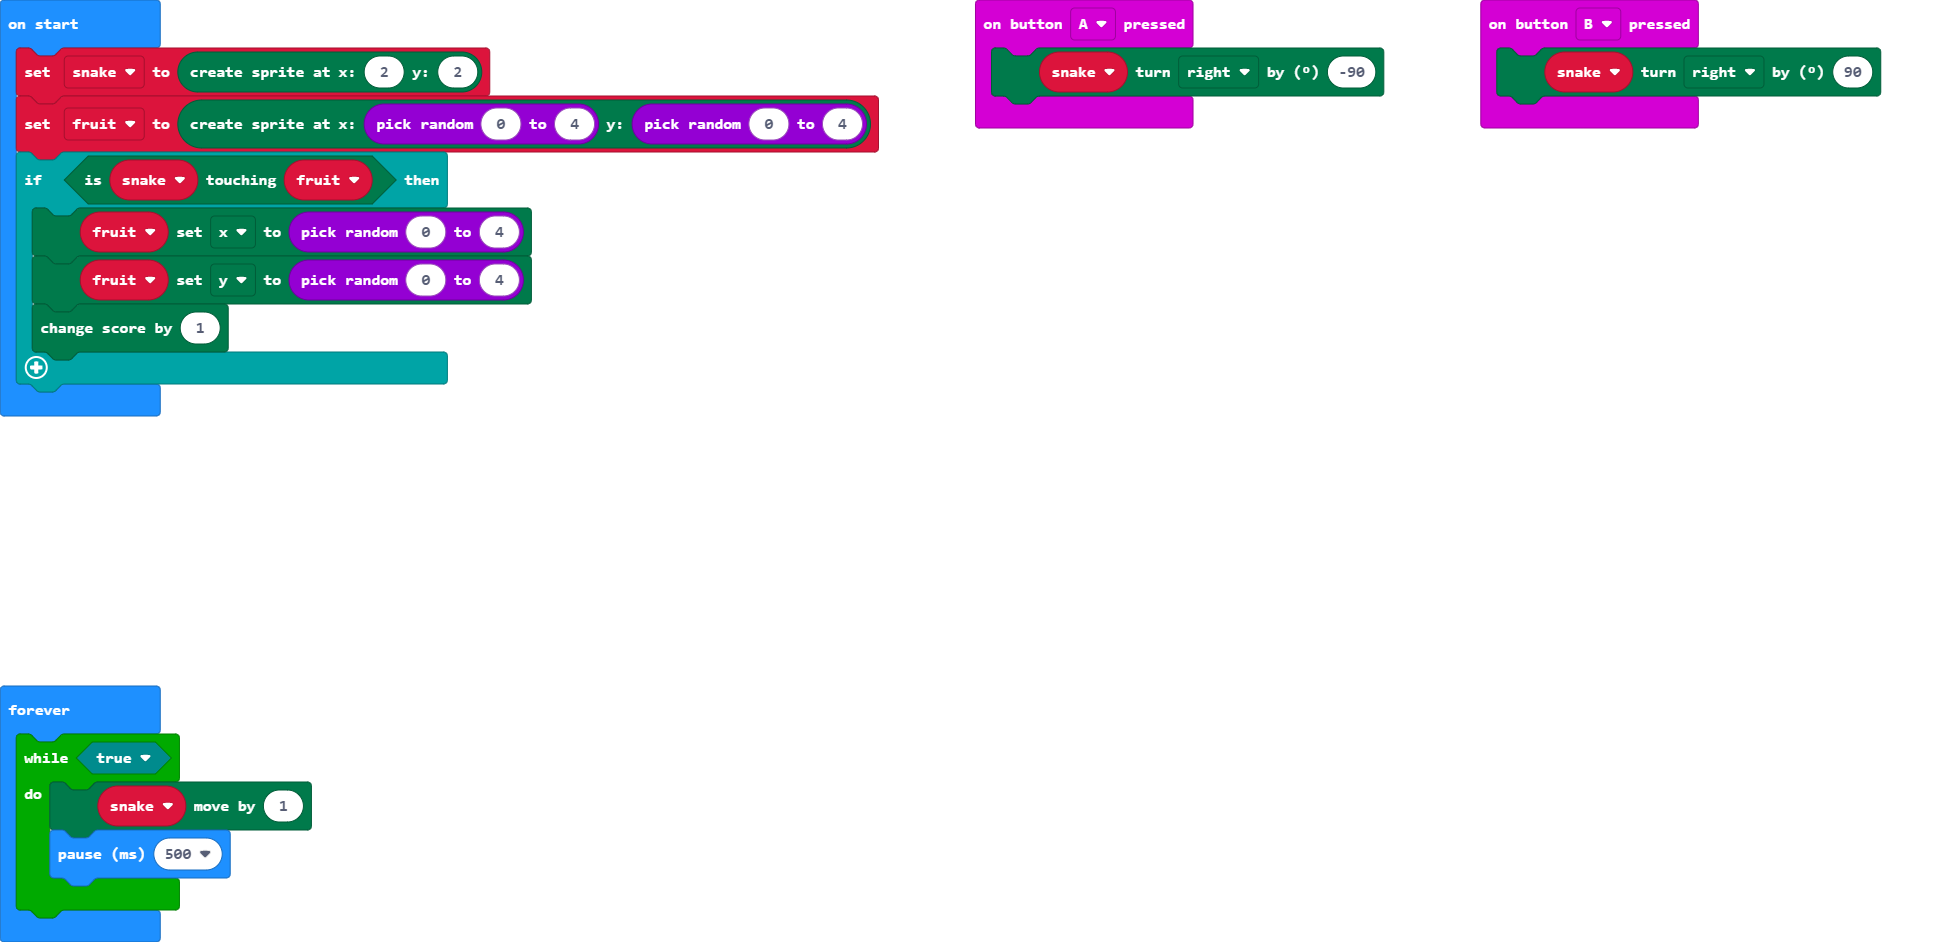
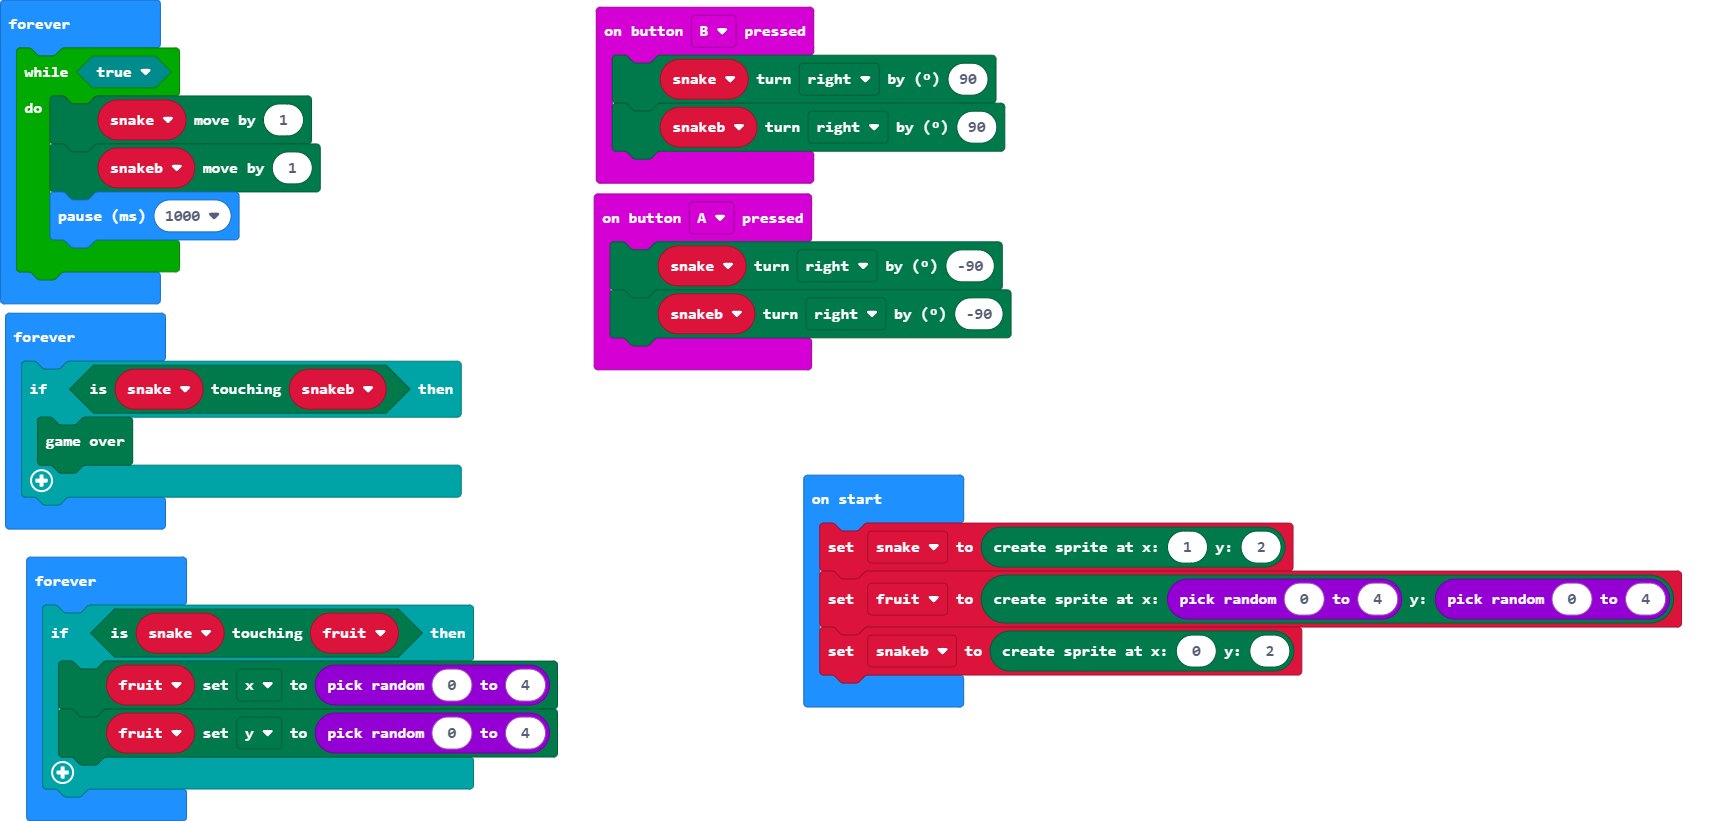
Update main.blocks, main.ts

diff --git a/main.ts b/main.ts
@@ -1,20 +1,31 @@
 input.onButtonPressed(Button.A, function () {
     snake.turn(Direction.Right, -90)
+    snakeb.turn(Direction.Right, -90)
 })
 input.onButtonPressed(Button.B, function () {
     snake.turn(Direction.Right, 90)
+    snakeb.turn(Direction.Right, 90)
 })
+let snakeb: game.LedSprite = null
 let snake: game.LedSprite = null
-snake = game.createSprite(2, 2)
+snake = game.createSprite(1, 2)
 let fruit = game.createSprite(randint(0, 4), randint(0, 4))
-if (snake.isTouching(fruit)) {
-    fruit.set(LedSpriteProperty.X, randint(0, 4))
-    fruit.set(LedSpriteProperty.Y, randint(0, 4))
-    game.addScore(1)
-}
+snakeb = game.createSprite(0, 2)
 basic.forever(function () {
     while (true) {
         snake.move(1)
-        basic.pause(500)
+        snakeb.move(1)
+        basic.pause(1000)
+    }
+})
+basic.forever(function () {
+    if (snake.isTouching(snakeb)) {
+        game.gameOver()
+    }
+})
+basic.forever(function () {
+    if (snake.isTouching(fruit)) {
+        fruit.set(LedSpriteProperty.X, randint(0, 4))
+        fruit.set(LedSpriteProperty.Y, randint(0, 4))
     }
 })
